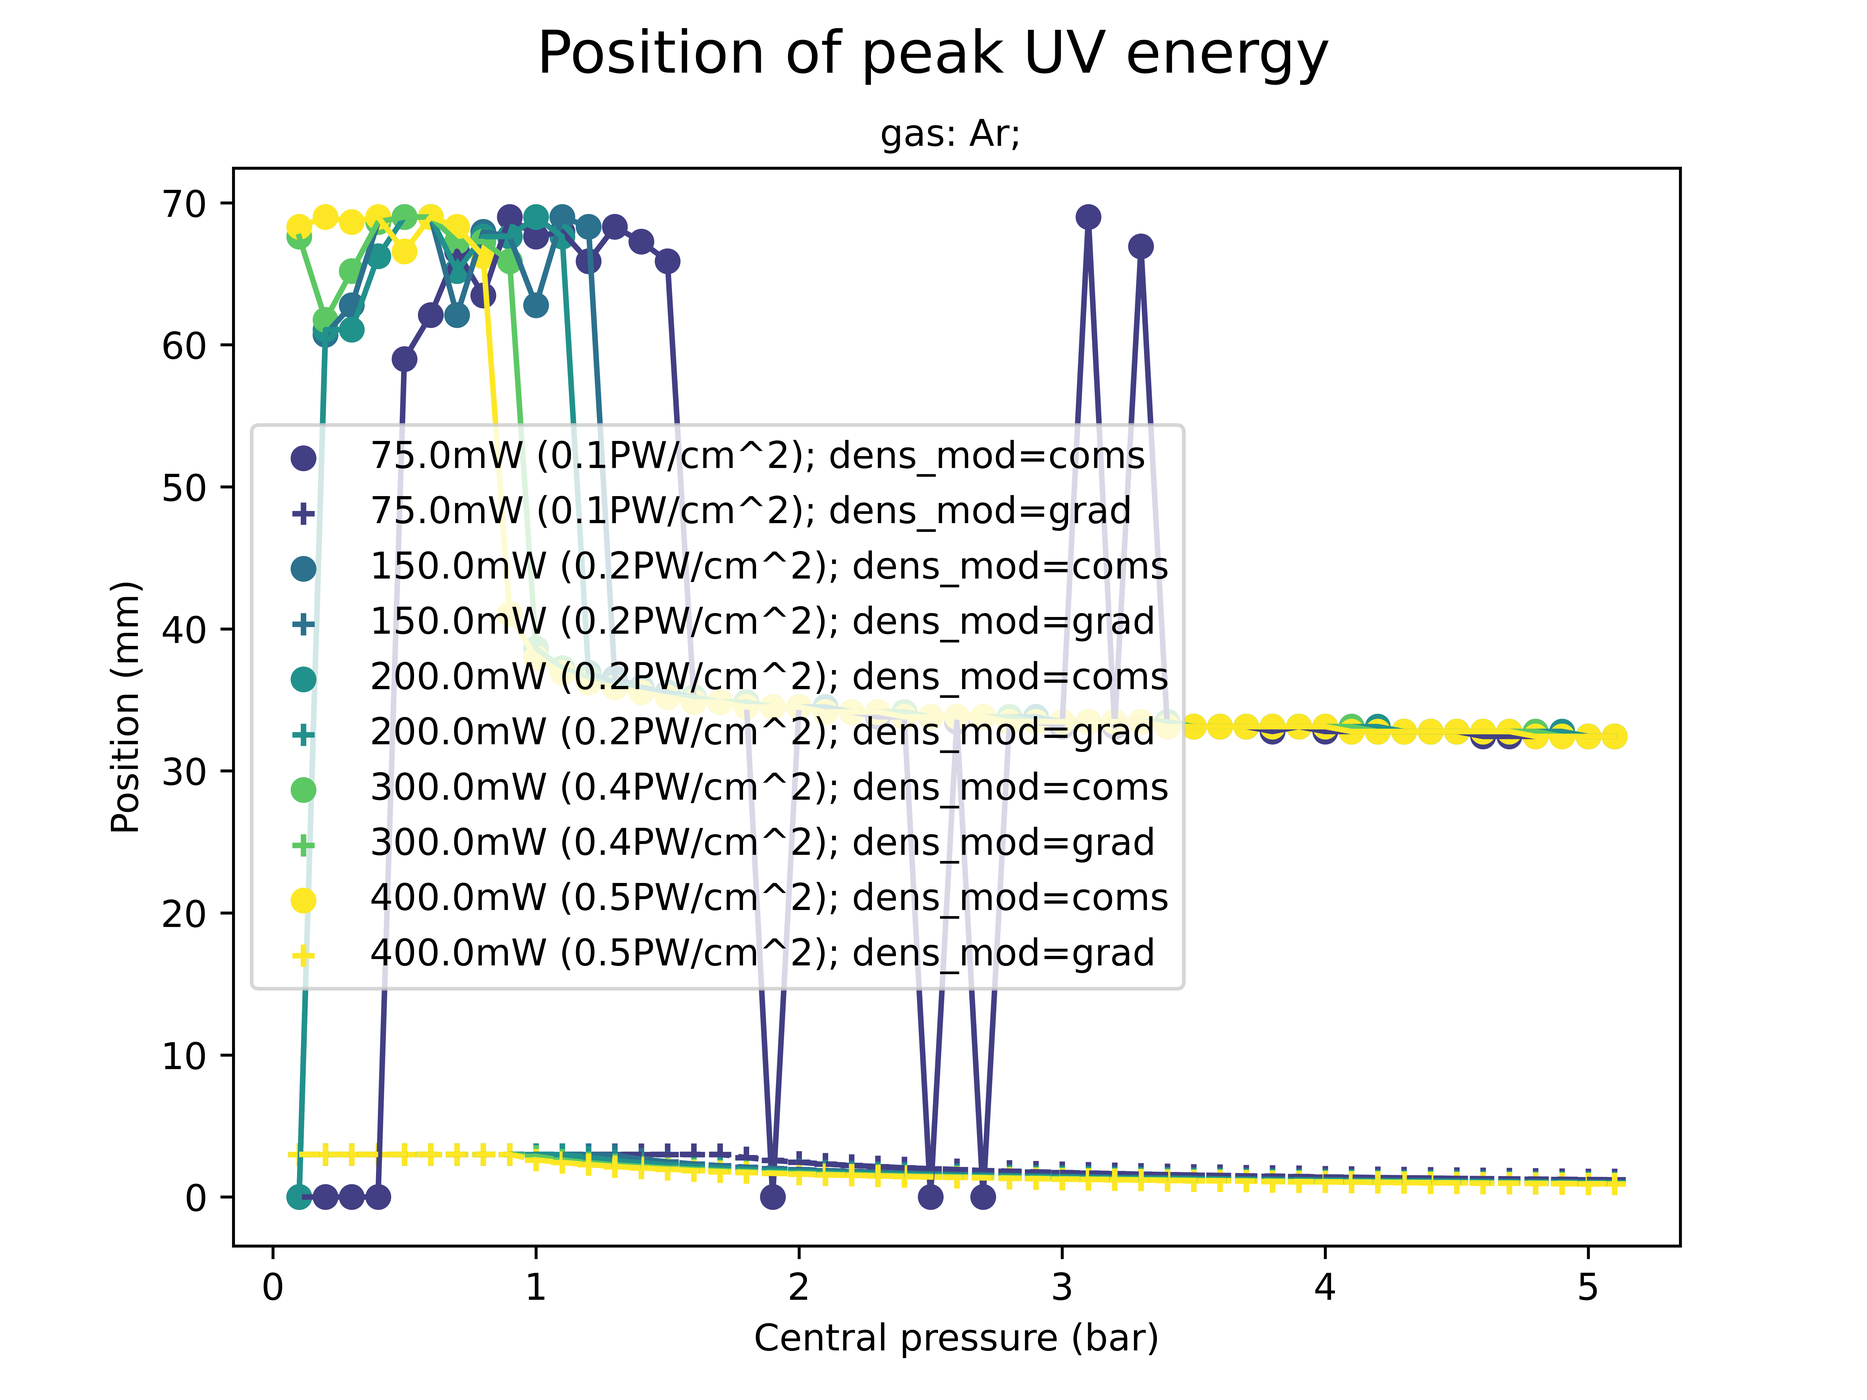
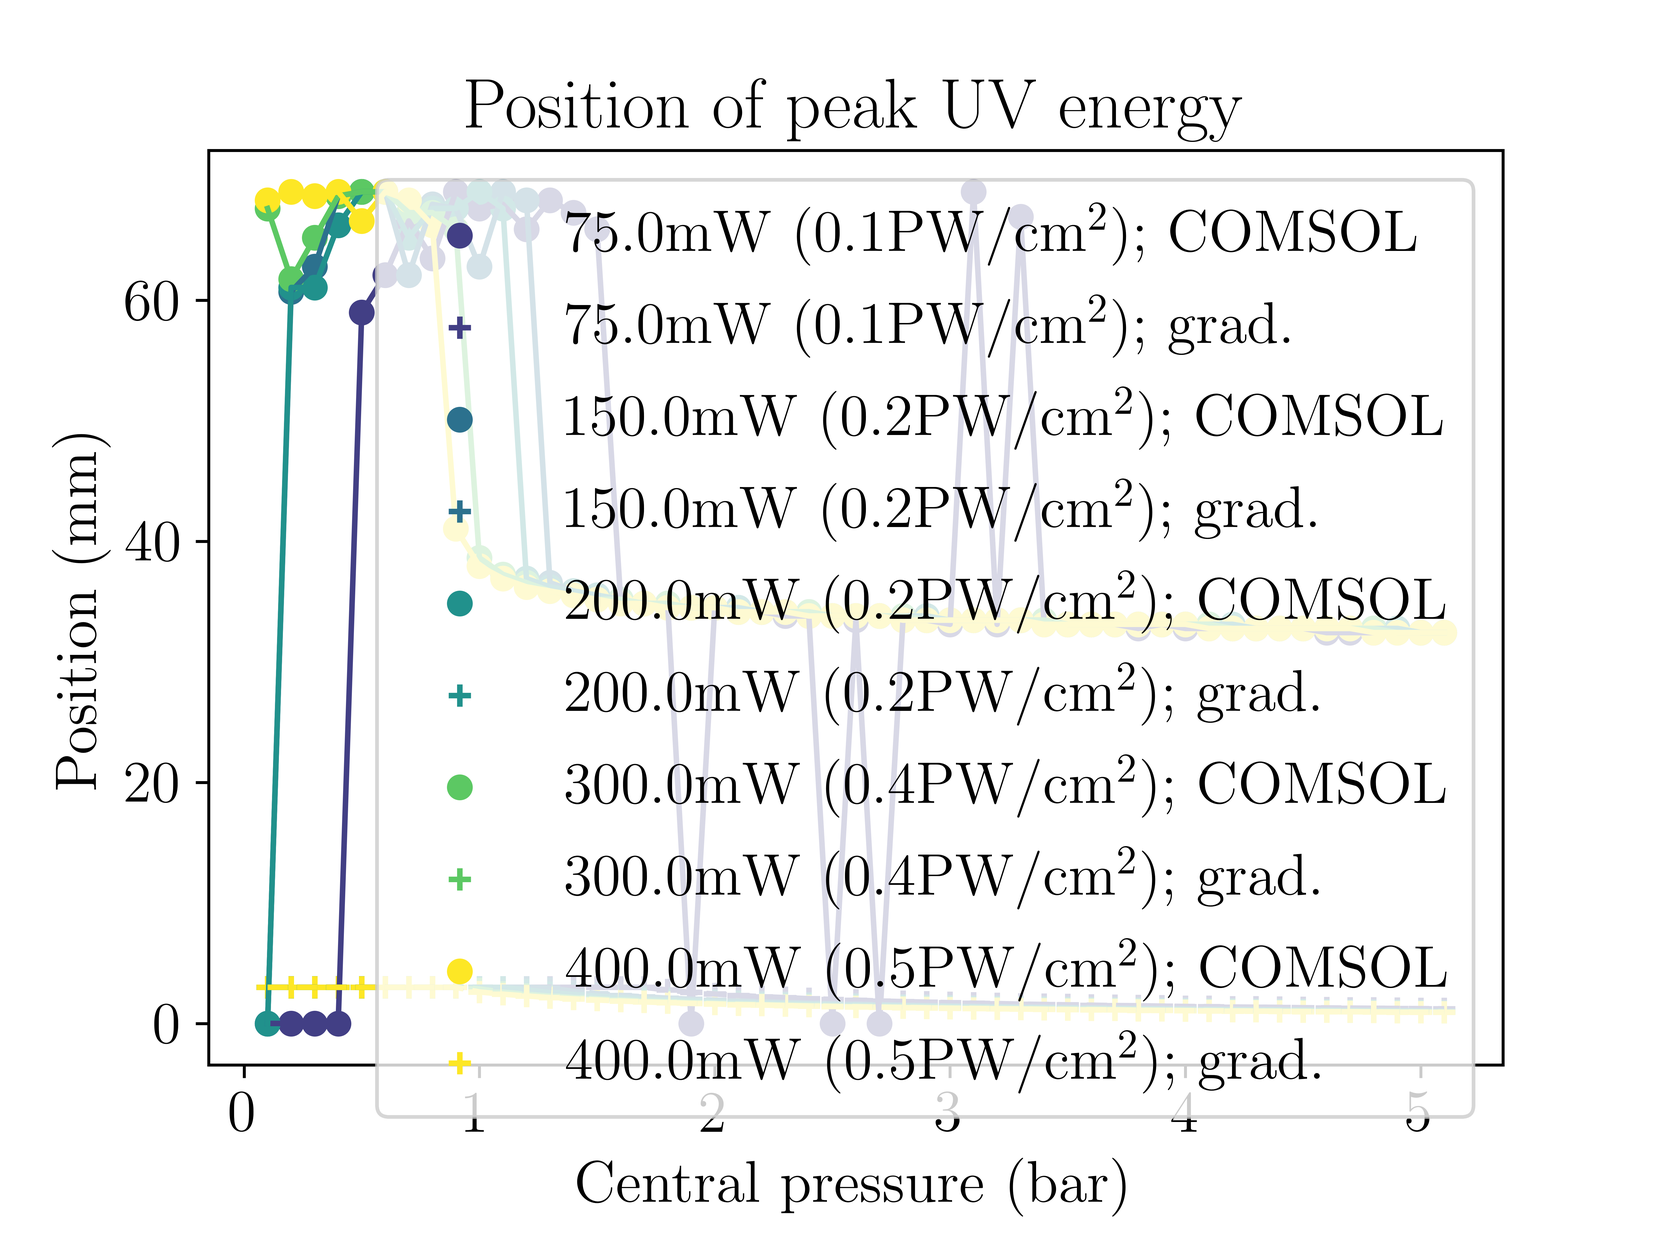
more updates to scan_eval

diff --git a/scan_eval.py b/scan_eval.py
@@ -292,7 +292,7 @@ def get_params(path):
     thickness=float(params[13,1])
     ion_mod=params[14,1][1:]
     
-    # also calculate 1/e^2 IR intensity in W/cm^2:
+    # also calculate 1/e^2 IR intensity in W/cm$^2$:
     IR_int = IR_energy  / (np.pi * (w0*1e2)**2 * tau)
 
     params_arr = np.array([gas, dens_mod, tau, lam0, w0, CEP, IR_energy, ion, propz, GVD, thickness, ion_mod, IR_int]) 
@@ -692,7 +692,7 @@ def plot_multipower(sup_dir, second_var=(None, None, None), **kwargs):
     if save and not os.path.isdir(out_path): 
         os.mkdir(out_path)
 
-    # auxiliary functions (beam_power in mW, I in PW/cm^2):
+    # auxiliary functions (beam_power in mW, I in PW/cm$^2$):
     def p2i(beam_power):
         return beam_power *1e-6 / (np.pi * (w0*1e2)**2 * tau ) * 1e-15
 
@@ -711,6 +711,7 @@ def plot_multipower(sup_dir, second_var=(None, None, None), **kwargs):
     cidx = IR_energy_arr / np.max(IR_energy_arr) 
 
     plt.figure(figsize=fig_dim) 
+    plt.subplots_adjust(bottom=0.15,left=0.15)
     if show_title: plt.title("Simulated UV energies")
     plt.ylabel("Energy (nJ)")
     plt.xlabel("Central pressure (bar)")
@@ -718,12 +719,12 @@ def plot_multipower(sup_dir, second_var=(None, None, None), **kwargs):
     for i in np.arange(N):
 
         if bool_sec_var:
-            plt.scatter(p_arr[i], UVen_arr[i]*1e9, color=cmap(cidx[i]), label=label1)
+            plt.scatter(p_arr[i], UVen_arr[i]*1e9, color=cmap(cidx[i]), label="{0}mW ({1:.1f}PW/cm$^2$)".format(IR_energy_arr[i]*1e6, 1e-15*IR_int_arr[i])+"; "+label1)
             plt.plot(p_arr[i], UVen_arr[i]*1e9, color=cmap(cidx[i]))
-            plt.scatter(p_arr2[i], UVen_arr2[i]*1e9, color=cmap(cidx[i]),marker="+", label=label2)
+            plt.scatter(p_arr2[i], UVen_arr2[i]*1e9, color=cmap(cidx[i]),marker="+", label="{0}mW ({1:.1f}PW/cm$^2$)".format(IR_energy_arr[i]*1e6, 1e-15*IR_int_arr[i])+"; "+label2)
             plt.plot(p_arr2[i], UVen_arr2[i]*1e9, ls="--", color=cmap(cidx[i]))
         else:
-            plt.scatter(p_arr[i], UVen_arr[i]*1e9, color=cmap(cidx[i]), label="{0}mW ({1:.1f}PW/cm^2)".format(IR_energy_arr[i]*1e6, 1e-15*IR_int_arr[i]))
+            plt.scatter(p_arr[i], UVen_arr[i]*1e9, color=cmap(cidx[i]), label="{0}mW ({1:.1f}PW/cm$^2$)".format(IR_energy_arr[i]*1e6, 1e-15*IR_int_arr[i]))
             plt.plot(p_arr[i], UVen_arr[i]*1e9, color=cmap(cidx[i]))
 
     plt.legend()
@@ -739,12 +740,12 @@ def plot_multipower(sup_dir, second_var=(None, None, None), **kwargs):
     for i in np.arange(len(path_arr)):
         
         if bool_sec_var:
-            plt.scatter(p_arr[i], ef_arr[i]*1e2, color=cmap(cidx[i]), label=label1)
+            plt.scatter(p_arr[i], ef_arr[i]*1e2, color=cmap(cidx[i]), label="{0}mW ({1:.1f}PW/cm$^2$)".format(IR_energy_arr[i]*1e6, 1e-15*IR_int_arr[i])+"; "+label1)
             plt.plot(p_arr[i], ef_arr[i]*1e2, color=cmap(cidx[i]))
-            plt.scatter(p_arr2[i],ef_arr2[i]*1e2, color=cmap(cidx[i]),marker="+", label=label2)
+            plt.scatter(p_arr2[i],ef_arr2[i]*1e2, color=cmap(cidx[i]),marker="+", label="{0}mW ({1:.1f}PW/cm$^2$)".format(IR_energy_arr[i]*1e6, 1e-15*IR_int_arr[i])+"; "+label2)
             plt.plot(p_arr2[i], ef_arr2[i]*1e2, ls="--", color=cmap(cidx[i]))
         else:
-            plt.scatter(p_arr[i], ef_arr[i]*1e2, color=cmap(cidx[i]), label="{0}mW ({1:.1f}PW/cm^2)".format(IR_energy_arr[i]*1e6, 1e-15*IR_int_arr[i]))
+            plt.scatter(p_arr[i], ef_arr[i]*1e2, color=cmap(cidx[i]), label="{0}mW ({1:.1f}PW/cm$^2$)".format(IR_energy_arr[i]*1e6, 1e-15*IR_int_arr[i]))
             plt.plot(p_arr[i], ef_arr[i]*1e2, color=cmap(cidx[i]))
 
     plt.legend()
@@ -754,18 +755,19 @@ def plot_multipower(sup_dir, second_var=(None, None, None), **kwargs):
     # PLOT 3: pulse duration vs pressure
     if old==False:  
         plt.figure(figsize=fig_dim) 
+        plt.subplots_adjust(bottom=0.15,left=0.15)
         if show_title: plt.title("Simulated UV pulse durations")
         plt.ylabel("Pulse duration (fs)")
         plt.xlabel("Central pressure (bar)")
         
         for i in np.arange(len(path_arr)):
             if bool_sec_var:
-                plt.scatter(p_arr[i], tau_arr[i]*1e15, color=cmap(cidx[i]), label=label1)
+                plt.scatter(p_arr[i], tau_arr[i]*1e15, color=cmap(cidx[i]), label="{0}mW ({1:.1f}PW/cm$^2$)".format(IR_energy_arr[i]*1e6, 1e-15*IR_int_arr[i])+"; "+label1)
                 plt.plot(p_arr[i], tau_arr[i]*1e15, color=cmap(cidx[i]))
-                plt.scatter(p_arr2[i],tau_arr2[i]*1e15,marker="+", color=cmap(cidx[i]), label=label2)
+                plt.scatter(p_arr2[i],tau_arr2[i]*1e15,marker="+", color=cmap(cidx[i]), label="{0}mW ({1:.1f}PW/cm$^2$)".format(IR_energy_arr[i]*1e6, 1e-15*IR_int_arr[i])+"; "+label2)
                 plt.plot(p_arr2[i], tau_arr2[i]*1e15,ls="--", color=cmap(cidx[i]))
             else:
-                plt.scatter(p_arr[i], tau_arr[i]*1e15, color=cmap(cidx[i]), label="{0}mW ({1:.1f}PW/cm^2)".format(IR_energy_arr[i]*1e6, 1e-15*IR_int_arr[i]))
+                plt.scatter(p_arr[i], tau_arr[i]*1e15, color=cmap(cidx[i]), label="{0}mW ({1:.1f}PW/cm$^2$)".format(IR_energy_arr[i]*1e6, 1e-15*IR_int_arr[i]))
                 plt.plot(p_arr[i], tau_arr[i]*1e15, color=cmap(cidx[i]))
 
         plt.legend()
@@ -775,6 +777,7 @@ def plot_multipower(sup_dir, second_var=(None, None, None), **kwargs):
     # PLOT 4: z_peak vs pressure 
     if old==False:
         plt.figure(figsize=fig_dim) 
+        plt.subplots_adjust(bottom=0.15, left=0.15)
         if show_title: plt.title("Position of peak UV energy")
         plt.ylabel("Position (mm)")
         plt.xlabel("Central pressure (bar)")
@@ -782,12 +785,12 @@ def plot_multipower(sup_dir, second_var=(None, None, None), **kwargs):
         for i in np.arange(len(path_arr)):
 
             if bool_sec_var:
-                plt.scatter(p_arr[i], zpeak_arr[i]*1e3, color=cmap(cidx[i]), label=label1)
+                plt.scatter(p_arr[i], zpeak_arr[i]*1e3, color=cmap(cidx[i]), label="{0}mW ({1:.1f}PW/cm$^2$)".format(IR_energy_arr[i]*1e6, 1e-15*IR_int_arr[i])+"; "+label1)
                 plt.plot(p_arr[i], zpeak_arr[i]*1e3, color=cmap(cidx[i]))
-                plt.scatter(p_arr2[i],zpeak_arr2[i]*1e3,marker="+", color=cmap(cidx[i]), label=label2)
+                plt.scatter(p_arr2[i],zpeak_arr2[i]*1e3,marker="+", color=cmap(cidx[i]), label="{0}mW ({1:.1f}PW/cm$^2$)".format(IR_energy_arr[i]*1e6, 1e-15*IR_int_arr[i])+"; "+label2)
                 plt.plot(p_arr2[i], zpeak_arr2[i]*1e3,ls="--", color=cmap(cidx[i]))
             else:
-                plt.scatter(p_arr[i], zpeak_arr[i]*1e3, color=cmap(cidx[i]), label="{0}mW ({1:.1f}PW/cm^2)".format(IR_energy_arr[i]*1e6, 1e-15*IR_int_arr[i]))
+                plt.scatter(p_arr[i], zpeak_arr[i]*1e3, color=cmap(cidx[i]), label="{0}mW ({1:.1f}PW/cm$^2$)".format(IR_energy_arr[i]*1e6, 1e-15*IR_int_arr[i]))
                 plt.plot(p_arr[i], zpeak_arr[i]*1e3, color=cmap(cidx[i]))
 
         plt.legend()
@@ -818,18 +821,17 @@ def plot_multipower(sup_dir, second_var=(None, None, None), **kwargs):
             peak_arr2[i,5] =  min_tau_pres
 
     fig, ax = plt.subplots(figsize=fig_dim)
-    plt.subplots_adjust(top=0.8, right=0.9)
-    ax.set_title(title_str, fontsize=10)
-    if show_title: plt.suptitle("Simulated peak UV energies", fontsize=16)
+    plt.subplots_adjust(top=0.8, right=0.9, bottom=0.15,left=0.15)
+    if show_title: plt.title("Simulated peak UV energies")
     ax.set_xlabel("Beam power (mW)")
     ax.set_ylabel("Peak UV energy (nJ)")
     secax = ax.secondary_xaxis('top', functions=(p2i, i2p))
-    secax.set_xlabel('Peak intensity (PW/cm^2)')
+    secax.set_xlabel('Peak intensity (PW/cm$^2$)')
 
     if bool_sec_var:
-        ax.scatter(peak_arr[:,0]*1e6, peak_arr[:,2]*1e9, color="blue", label="{0}={1}".format(second_var[0], second_var[1]))
+        ax.scatter(peak_arr[:,0]*1e6, peak_arr[:,2]*1e9, color="blue", label=label1)
         ax.plot(peak_arr[:,0]*1e6, peak_arr[:,2]*1e9, color="blue")
-        ax.scatter(peak_arr2[:,0]*1e6, peak_arr2[:,2]*1e9, color="red", label="{0}={1}".format(second_var[0], second_var[2]))
+        ax.scatter(peak_arr2[:,0]*1e6, peak_arr2[:,2]*1e9, color="red", label=label2)
         ax.plot(peak_arr2[:,0]*1e6, peak_arr2[:,2]*1e9, color="red")
         plt.legend()
     else:    
@@ -840,37 +842,35 @@ def plot_multipower(sup_dir, second_var=(None, None, None), **kwargs):
     if show: plt.show()
 
     fig, ax = plt.subplots(figsize=fig_dim)
-    plt.subplots_adjust(top=0.8, right=0.9)
-    ax.set_title(title_str, fontsize=10)
-    if show_title: plt.suptitle("Simulated peak UV efficiencies", fontsize=16)
+    plt.subplots_adjust(top=0.8, right=0.9, bottom=0.15,left=0.15)
+    if show_title: plt.title("Simulated peak UV efficiencies")
     ax.set_xlabel("Beam power (mW)")
-    ax.set_ylabel("Efficiency (%)")
+    ax.set_ylabel("Efficiency (\%)")
 
     if bool_sec_var:
-        ax.scatter(peak_arr[:,0]*1e6, peak_arr[:,3]*1e2, color="blue", label="{0}={1}".format(second_var[0], second_var[1]))
+        ax.scatter(peak_arr[:,0]*1e6, peak_arr[:,3]*1e2, color="blue", label=label1)
         ax.plot(peak_arr[:,0]*1e6, peak_arr[:,3]*1e2, color="blue")
-        ax.scatter(peak_arr2[:,0]*1e6, peak_arr2[:,3]*1e2, color="red", label="{0}={1}".format(second_var[0], second_var[2]))
+        ax.scatter(peak_arr2[:,0]*1e6, peak_arr2[:,3]*1e2, color="red", label=label2)
         ax.plot(peak_arr2[:,0]*1e6, peak_arr2[:,3]*1e2, color="red")
         plt.legend()
     else:
         ax.scatter(peak_arr[:,0]*1e6, peak_arr[:,3]*1e2, color="blue")
         ax.plot(peak_arr[:,0]*1e6, peak_arr[:,3]*1e2, color="blue")
     secax = ax.secondary_xaxis('top', functions=(p2i, i2p))
-    secax.set_xlabel('Peak intensity (PW/cm^2)')
+    secax.set_xlabel('Peak intensity (PW/cm$^2$)')
 
     if save: plt.savefig(os.path.join(out_path,"peak_ef_vs_beam_power.png"),dpi=1000)
     if show: plt.show()
 
     fig, ax = plt.subplots(figsize=fig_dim)
-    plt.subplots_adjust(top=0.8, right=0.9)
-    ax.set_title(title_str, fontsize=10)
-    if show_title: plt.suptitle("Simulated saturation pressures", fontsize=16)
+    plt.subplots_adjust(top=0.8, right=0.9, bottom=0.15,left=0.15)
+    if show_title: plt.title("Simulated saturation pressures")
     ax.set_xlabel("Beam power (mW)")
     ax.set_ylabel("Saturation pressure (bar)")
     if bool_sec_var:
-        ax.scatter(peak_arr[:,0]*1e6, peak_arr[:,1], color="blue", label="{0}={1}".format(second_var[0], second_var[1]))
+        ax.scatter(peak_arr[:,0]*1e6, peak_arr[:,1], color="blue", label=label1)
         ax.plot(peak_arr[:,0]*1e6, peak_arr[:,1], color="blue")
-        ax.scatter(peak_arr2[:,0]*1e6, peak_arr2[:,1], color="red", label="{0}={1}".format(second_var[0], second_var[2]))
+        ax.scatter(peak_arr2[:,0]*1e6, peak_arr2[:,1], color="red", label=label2)
         ax.plot(peak_arr2[:,0]*1e6, peak_arr2[:,1], color="red")
         plt.legend()
     else:
@@ -878,22 +878,21 @@ def plot_multipower(sup_dir, second_var=(None, None, None), **kwargs):
         ax.plot(peak_arr[:,0]*1e6, peak_arr[:,1], color="blue")
     
     secax = ax.secondary_xaxis('top', functions=(p2i, i2p))
-    secax.set_xlabel('Peak intensity (PW/cm^2)')
+    secax.set_xlabel('Peak intensity (PW/cm$^2$)')
 
     if save: plt.savefig(os.path.join(out_path,"peak_p_vs_beam_power.png"),dpi=1000)
     if show: plt.show()
 
     if old==False:
         fig, ax = plt.subplots(figsize=fig_dim)
-        plt.subplots_adjust(top=0.8, right=0.9)
-        ax.set_title(title_str, fontsize=10)
-        if show_title: plt.suptitle("Simulated UV pulse durations", fontsize=16)
+        plt.subplots_adjust(top=0.8, right=0.9, bottom=0.15, left=0.15)
+        if show_title: plt.title("Simulated UV pulse durations")
         ax.set_xlabel("Beam power (mW)")
         ax.set_ylabel("Minimum pulse duration (fs)")
         if bool_sec_var:
-            ax.scatter(peak_arr[:,0]*1e6, peak_arr[:,4]*1e15, color="blue", label="{0}={1}".format(second_var[0], second_var[1]))
+            ax.scatter(peak_arr[:,0]*1e6, peak_arr[:,4]*1e15, color="blue", label=label1)
             ax.plot(peak_arr[:,0]*1e6, peak_arr[:,4]*1e15, color="blue")
-            ax.scatter(peak_arr2[:,0]*1e6, peak_arr2[:,4]*1e15, color="red", label="{0}={1}".format(second_var[0], second_var[2]))
+            ax.scatter(peak_arr2[:,0]*1e6, peak_arr2[:,4]*1e15, color="red", label=label2)
             ax.plot(peak_arr2[:,0]*1e6, peak_arr2[:,4]*1e15, color="red")
             plt.legend()
         else:
@@ -901,22 +900,21 @@ def plot_multipower(sup_dir, second_var=(None, None, None), **kwargs):
             ax.plot(peak_arr[:,0]*1e6, peak_arr[:,4]*1e15, color="blue")
         
         secax = ax.secondary_xaxis('top', functions=(p2i, i2p))
-        secax.set_xlabel('Peak intensity (PW/cm^2)')
+        secax.set_xlabel('Peak intensity (PW/cm$^2$)')
 
         if save: plt.savefig(os.path.join(out_path,"tau_min_vs_beam_power.png"),dpi=1000)
         if show: plt.show()
 
     if old==False:
         fig, ax = plt.subplots(figsize=fig_dim)
-        plt.subplots_adjust(top=0.8, right=0.9)
-        ax.set_title(title_str, fontsize=10)
-        if show_title: plt.suptitle("Simulated minimal pulse duration pressure", fontsize=16)
+        plt.subplots_adjust(top=0.8, right=0.9, bottom=0.15, left=0.15)
+        if show_title: plt.title("Simulated minimal pulse duration pressure")
         ax.set_xlabel("Beam power (mW)")
         ax.set_ylabel("Minimum pulse duration pressure (bar)")
         if bool_sec_var:
-            ax.scatter(peak_arr[:,0]*1e6, peak_arr[:,5], color="blue", label="{0}={1}".format(second_var[0], second_var[1]))
+            ax.scatter(peak_arr[:,0]*1e6, peak_arr[:,5], color="blue", label=label1)
             ax.plot(peak_arr[:,0]*1e6, peak_arr[:,5], color="blue")
-            ax.scatter(peak_arr2[:,0]*1e6, peak_arr2[:,5], color="red", label="{0}={1}".format(second_var[0], second_var[2]))
+            ax.scatter(peak_arr2[:,0]*1e6, peak_arr2[:,5], color="red", label=label2)
             ax.plot(peak_arr2[:,0]*1e6, peak_arr2[:,5], color="red")
             plt.legend()
         else:
@@ -924,7 +922,7 @@ def plot_multipower(sup_dir, second_var=(None, None, None), **kwargs):
             ax.plot(peak_arr[:,0]*1e6, peak_arr[:,5], color="blue")
         
         secax = ax.secondary_xaxis('top', functions=(p2i, i2p))
-        secax.set_xlabel('Peak intensity (PW/cm^2)')
+        secax.set_xlabel('Peak intensity (PW/cm$^2$)')
 
         if save: plt.savefig(os.path.join(out_path,"min_tau_p_vs_beam_power.png"),dpi=1000)
         if show: plt.show()
@@ -959,7 +957,7 @@ def plot_gas_comp_singleP(sup_dir,beam_en,dens_mod):
     plt.figure(figsize=fig_dim) 
     plt.subplots_adjust(top=0.85)
     if show_title: plt.suptitle("Simulated UV energies", fontsize=16)
-    plt.title("Beam power: {1}mW ({2:.1f}PW/cm^2); CEP: {0:.2f}rad; ".format(phi,beam_en*1e3, I*1e-15 )+"\n response function: "+kerr+"; ionisation: "+ion+"; model: "+dens_mod, fontsize=10)
+    plt.title("Beam power: {1}mW ({2:.1f}PW/cm$^2$); CEP: {0:.2f}rad; ".format(phi,beam_en*1e3, I*1e-15 )+"\n response function: "+kerr+"; ionisation: "+ion+"; model: "+dens_mod, fontsize=10)
     plt.ylabel("Energy (nJ)")
     plt.xlabel("Central pressure (bar)")
     
@@ -976,7 +974,7 @@ def plot_gas_comp_singleP(sup_dir,beam_en,dens_mod):
     plt.figure(figsize=fig_dim) 
     plt.subplots_adjust(top=0.85)
     if show_title: plt.suptitle("Simulated THG efficiencies", fontsize=16)
-    plt.title("Beam power: {1}mW ({2:.1f}PW/cm^2); CEP: {0:.2f}rad; ".format(phi,beam_en*1e3, I*1e-15 )+"\n response function: "+kerr+"; ionisation: "+ion+"; model: "+dens_mod, fontsize=10)
+    plt.title("Beam power: {1}mW ({2:.1f}PW/cm$^2$); CEP: {0:.2f}rad; ".format(phi,beam_en*1e3, I*1e-15 )+"\n response function: "+kerr+"; ionisation: "+ion+"; model: "+dens_mod, fontsize=10)
     plt.ylabel("Efficiency (%)")
     plt.xlabel("Central pressure (bar)")
     
@@ -993,7 +991,7 @@ def plot_gas_comp_singleP(sup_dir,beam_en,dens_mod):
     plt.figure(figsize=fig_dim) 
     plt.subplots_adjust(top=0.85)
     if show_title: plt.suptitle("Simulated UV pulse durations", fontsize=16)
-    plt.title("Beam power: {1}mW ({2:.1f}PW/cm^2); CEP: {0:.2f}rad; ".format(phi,beam_en*1e3, I*1e-15 )+"\n response function: "+kerr+"; ionisation: "+ion+"; model: "+dens_mod, fontsize=10)
+    plt.title("Beam power: {1}mW ({2:.1f}PW/cm$^2$); CEP: {0:.2f}rad; ".format(phi,beam_en*1e3, I*1e-15 )+"\n response function: "+kerr+"; ionisation: "+ion+"; model: "+dens_mod, fontsize=10)
     plt.ylabel("Pulse duration (fs)")
     plt.xlabel("Central pressure (bar)")
     
@@ -1010,7 +1008,7 @@ def plot_gas_comp_singleP(sup_dir,beam_en,dens_mod):
     plt.figure(figsize=fig_dim) 
     plt.subplots_adjust(top=0.85)
     if show_title: plt.suptitle("Position of peak UV energy", fontsize=16)
-    plt.title("Beam power: {1}mW ({2:.1f}PW/cm^2); CEP: {0:.2f}rad; ".format(phi,beam_en*1e3, I*1e-15 )+"\n response function: "+kerr+"; ionisation: "+ion+"; model: "+dens_mod, fontsize=10)
+    plt.title("Beam power: {1}mW ({2:.1f}PW/cm$^2$); CEP: {0:.2f}rad; ".format(phi,beam_en*1e3, I*1e-15 )+"\n response function: "+kerr+"; ionisation: "+ion+"; model: "+dens_mod, fontsize=10)
     plt.ylabel("Position (mm)")
     plt.xlabel("Central pressure (bar)")
     
@@ -1043,7 +1041,7 @@ def plot_gas_comp_multiP(sup_dir,dens_mod, excluded_gases):
     if not os.path.isdir(out_path): 
         os.mkdir(out_path)
 
-    # auxiliary functions (beam_en in mW, I in PW/cm^2):
+    # auxiliary functions (beam_en in mW, I in PW/cm$^2$):
     def p2i(beam_en):
         return beam_en *1e-6 / (np.pi * (w0*1e2)**2 * tau ) * 1e-15
 
@@ -1078,7 +1076,7 @@ def plot_gas_comp_multiP(sup_dir,dens_mod, excluded_gases):
     ax.set_xlabel("Beam power (mW)")
     ax.set_ylabel("Peak UV energy (nJ)")
     secax = ax.secondary_xaxis('top', functions=(p2i, i2p))
-    secax.set_xlabel('Peak intensity (PW/cm^2)')
+    secax.set_xlabel('Peak intensity (PW/cm$^2$)')
 
     for k in np.arange(len(gas_arr)):
         peak_arr = peak_data[k, 1]
@@ -1101,7 +1099,7 @@ def plot_gas_comp_multiP(sup_dir,dens_mod, excluded_gases):
         ax.scatter(peak_arr[:,0]*1e6, peak_arr[:,3]*1e2, color=colour_cycle[k], label=peak_data[k,0])
         ax.plot(peak_arr[:,0]*1e6, peak_arr[:,3]*1e2, color=colour_cycle[k])
     secax = ax.secondary_xaxis('top', functions=(p2i, i2p))
-    secax.set_xlabel('Peak intensity (PW/cm^2)')
+    secax.set_xlabel('Peak intensity (PW/cm$^2$)')
 
     plt.legend()
     if save: plt.savefig(os.path.join(out_path,"peak_ef_vs_beam_power.png"),dpi=1000)
@@ -1120,7 +1118,7 @@ def plot_gas_comp_multiP(sup_dir,dens_mod, excluded_gases):
         ax.plot(peak_arr[:,0]*1e6, peak_arr[:,1], color=colour_cycle[k])
     
     secax = ax.secondary_xaxis('top', functions=(p2i, i2p))
-    secax.set_xlabel('Peak intensity (PW/cm^2)')
+    secax.set_xlabel('Peak intensity (PW/cm$^2$)')
 
     plt.legend()
     if save: plt.savefig(os.path.join(out_path,"peak_p_vs_beam_power.png"),dpi=1000)
@@ -1138,7 +1136,7 @@ def plot_gas_comp_multiP(sup_dir,dens_mod, excluded_gases):
         ax.plot(peak_arr[:,0]*1e6, peak_arr[:,4]*1e15, color=colour_cycle[k])
     
     secax = ax.secondary_xaxis('top', functions=(p2i, i2p))
-    secax.set_xlabel('Peak intensity (PW/cm^2)')
+    secax.set_xlabel('Peak intensity (PW/cm$^2$)')
     plt.legend()
 
     if save: plt.savefig(os.path.join(out_path,"tau_min_vs_beam_power.png"),dpi=1000)
@@ -1155,7 +1153,7 @@ def plot_gas_comp_multiP(sup_dir,dens_mod, excluded_gases):
         ax.scatter(peak_arr[:,0]*1e6, peak_arr[:,5], color=colour_cycle[k], label=peak_data[k,0])
         ax.plot(peak_arr[:,0]*1e6, peak_arr[:,5], color=colour_cycle[k])
     secax = ax.secondary_xaxis('top', functions=(p2i, i2p))
-    secax.set_xlabel('Peak intensity (PW/cm^2)')
+    secax.set_xlabel('Peak intensity (PW/cm$^2$)')
     plt.legend()
 
     if save: plt.savefig(os.path.join(out_path,"min_tau_p_vs_beam_power.png"),dpi=1000)
@@ -1165,4 +1163,4 @@ def plot_gas_comp_multiP(sup_dir,dens_mod, excluded_gases):
 if single:
     plot_single(single_dir, n)
 else:  
-    plot_double(sup_dir, ("dens_mod", "coms", "grad"),IR_energy=75e-6, gas="Ar")
+    plot_multipower(sup_dir, gas="Ar", dens_mod="coms")
